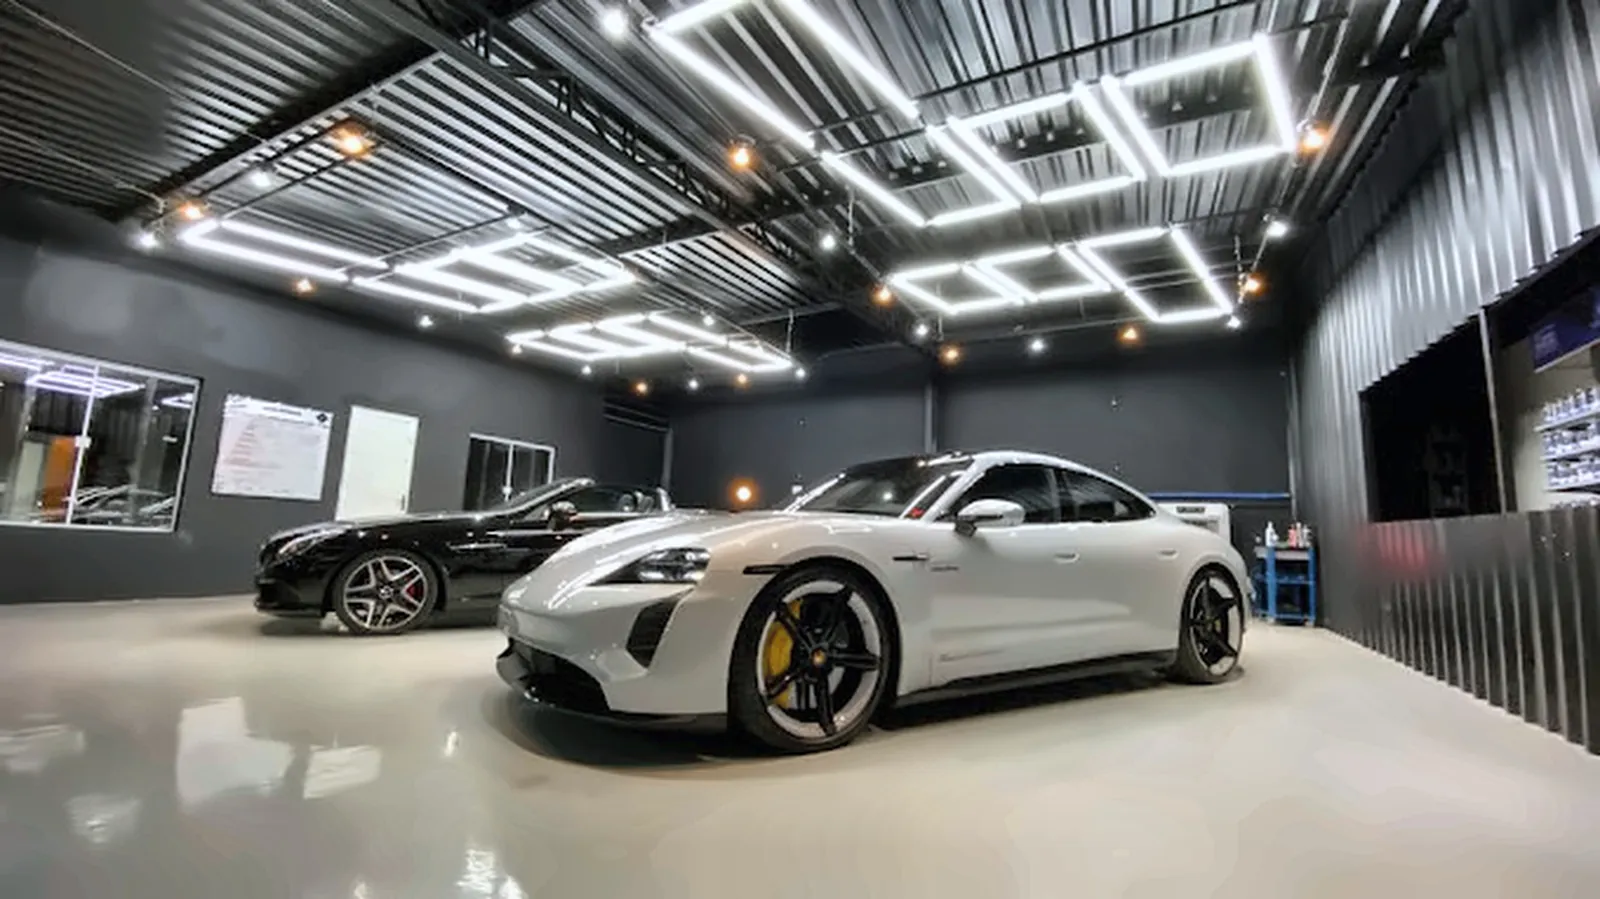
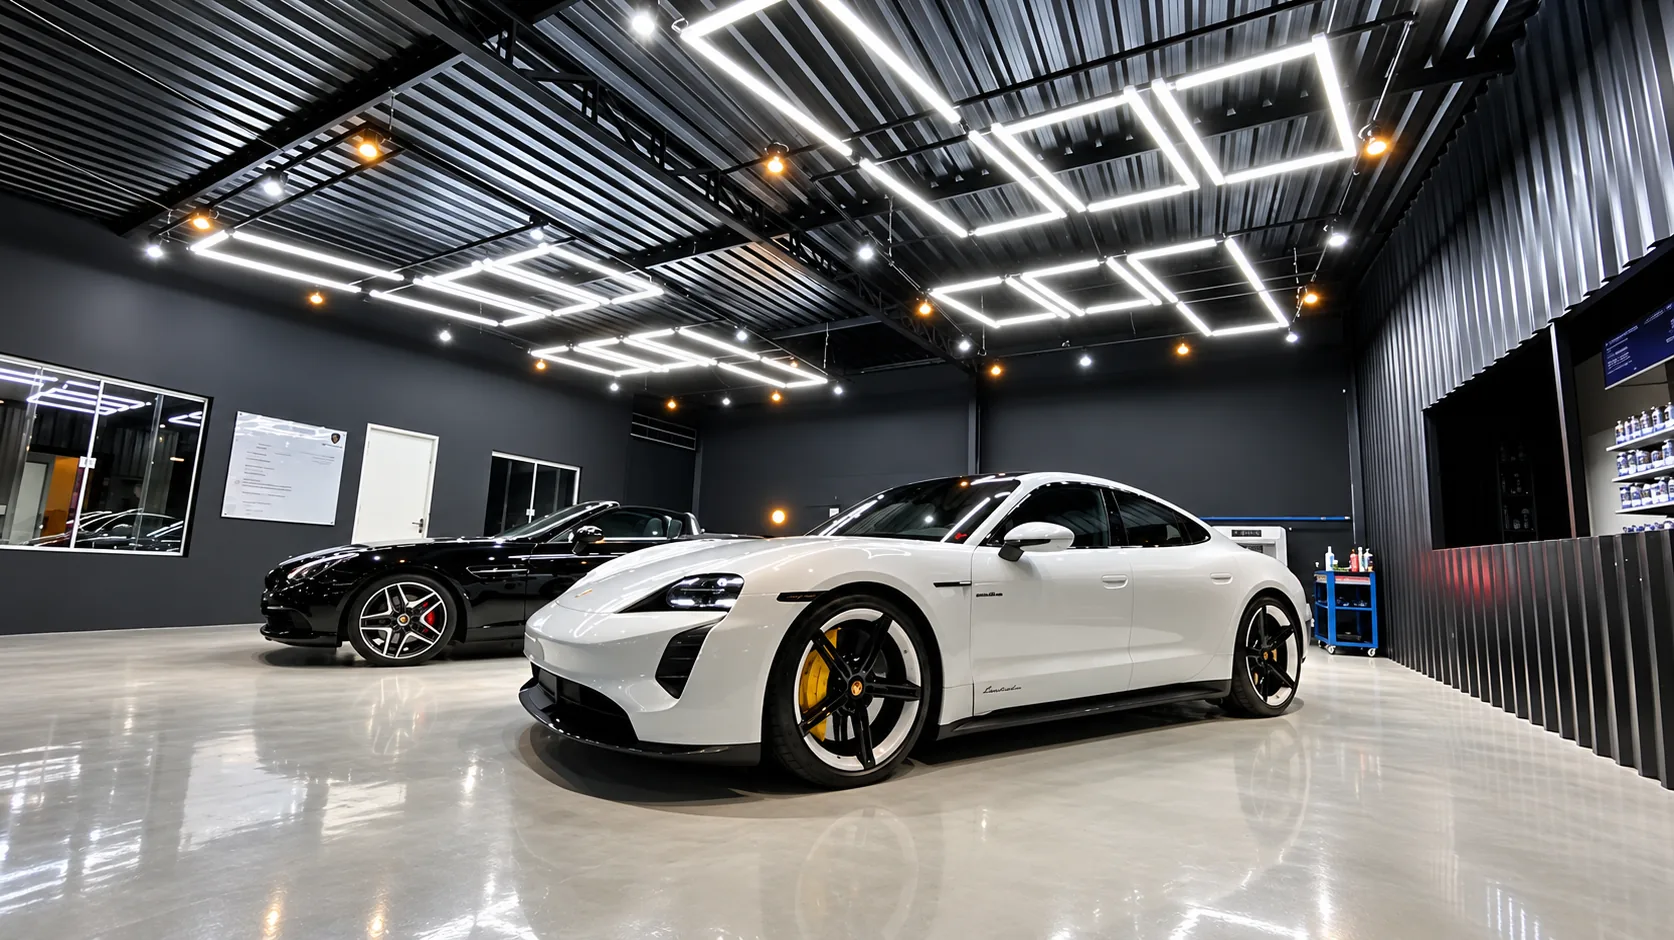
Volta a usar as fotos melhoradas no topo e nas etapas 02 e 03
A pedido do cliente. Etapa 01 e contato seguem com as originais: não há
versão melhorada da fachada de vidro, e a da fachada principal alterou
o número do imóvel e a placa.

Claude-Session: https://claude.ai/code/session_01FcK12V7j8h8asUUtxiPJzU

diff --git a/README.md b/README.md
@@ -6,7 +6,7 @@ GSAP 3.15 + ScrollTrigger, Lenis 1.3.26, Saira (eixo de largura) e Inter (fontes
 ## Arquivos
 - `index.html`: página completa
 - `img/`: fotos otimizadas (WebP), logo, favicon e imagem de compartilhamento (`og.jpg`)
-- `originais/`: arquivos enviados. **Os `ia-*.png` são versões tratadas por IA e NÃO são usados no site** (regra: só fotos reais).
+- `originais/`: arquivos enviados. Topo, etapa 02 e etapa 03 usam as versões melhoradas (`ia-*`), por escolha do cliente. A `ia-fachada-NAO-USAR-numero-errado.png` não é usada (número e placa alterados).
 
 ## Comportamento
 - Lenis (rolagem suave) na página inteira; animações apenas em fotos (máscara + parallax leve) e títulos grandes.
